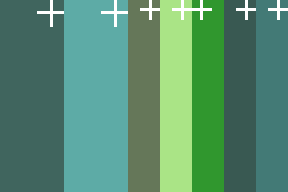
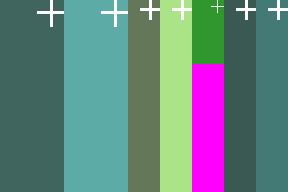
a

Changed region(s): [[0.6562, 0.3125, 0.7812, 1.0], [0.6562, 0.0, 0.7812, 0.125]]

diff --git a/wall-tileset-tool/main.cpp b/wall-tileset-tool/main.cpp
@@ -5,6 +5,7 @@
 #include "compat/format.hpp"
 #include "compat/debug.hpp"
 #include "src/wall-atlas.hpp"
+#include "src/tile-defs.hpp"
 #include "serialize/wall-atlas.hpp"
 //#include "serialize/json-helper.hpp"
 #include "loader/loader.hpp"
@@ -38,11 +39,6 @@ const Direction& get_direction(const wall_atlas_def& atlas, size_t i)
     fm_assert(idx);
     fm_assert(idx.val < atlas.direction_array.size());
     return atlas.direction_array[idx.val];
-}
-
-Direction& get_direction(wall_atlas_def& atlas, size_t i)
-{
-    return const_cast<Direction&>(get_direction(const_cast<const wall_atlas_def&>(atlas), i));
 }
 
 template<typename Fmt, typename... Xs>
@@ -90,40 +86,62 @@ bool convert_to_bgra32(const cv::Mat& src, cv::Mat4b& dest)
     }
 }
 
-Vector2ui mat_size(const cv::Mat& mat)
-{
-    return { (unsigned)mat.cols, (unsigned)mat.rows };
-}
-
 bool save_image(state st)
 {
-    const auto count = st.frames.size();
-    fm_assert(count);
-
-    for (auto i = 1uz; i < count; i++)
-        fm_assert(mat_size(st.frames[i].mat).y() == mat_size(st.frames[0].mat).y());
-
-    size_t total_width = 0;
-    for (const auto& x : st.frames)
-        total_width += mat_size(x.mat).x();
-    size_t num_rows = (total_width + max_image_dimension - 1) / max_image_dimension;
-    fm_assert(num_rows > 0);
-    fm_assert(num_rows == 1); // todo
-
-    st.dest.create((int)mat_size(st.frames[0].mat).y(), (int)total_width);
-    st.dest.setTo(cv::Scalar{0, 0, 0, 0});
-
-    unsigned xpos = 0;
-    for (auto& x : st.frames)
+    fm_assert(st.new_atlas.frames.empty());
+    uint32_t max_height = 0;
+    for (const auto& group : st.groups)
     {
-        const auto& src = x.mat;
-        x.size = mat_size(src);
-        x.offset = {(unsigned)xpos, 0};
-        auto rect = cv::Rect{(int)xpos, 0, (int)x.size.x(), (int)x.size.y()};
-        xpos += x.size.x();
-        src.copyTo(st.dest(rect));
-        st.new_atlas.frames.push_back({.offset = x.offset, .size = x.size});
+        const auto expected_size = wall_atlas::expected_size(st.new_atlas.header.depth, group.G);
+        max_height = std::max(max_height, expected_size.y());
     }
+    fm_assert(max_height > 0);
+    fm_assert(max_height == (uint32_t)iTILE_SIZE.z()); // todo?
+
+    uint32_t xpos = 0;
+    Vector2ui max;
+    for (auto& group : st.groups)
+    {
+        const auto size = wall_atlas::expected_size(st.new_atlas.header.depth, group.G);
+        const auto width = size.x(), height = size.y();
+        uint32_t ypos = 0;
+        bool started = false;
+        for (auto& frame : group.frames)
+        {
+            frame.offset = {xpos, ypos};
+            max = Math::max(max, frame.offset + size);
+            started = true;
+            fm_assert(max <= Vector2ui{(unsigned)max_image_dimension});
+            fm_assert(frame.size == size);
+            if (ypos + height*2 <= max_height)
+                ypos += height;
+            else
+            {
+                ypos = 0;
+                xpos += width;
+                started = false;
+            }
+        }
+        if (started)
+            xpos += width;
+    }
+    fm_assert(max.product() > 0);
+
+    st.dest.create((int)max.y(), (int)max.x());
+    st.dest.setTo(cv::Scalar{255, 0, 255, 0});
+
+    for (const auto& group : st.groups)
+    {
+        for (const auto& frame : group.frames)
+        {
+            //Debug{} << "g" << (int)group.G << frame.offset << frame.size;
+            auto rect = cv::Rect{(int)frame.offset.x(), (int)frame.offset.y(),
+                                 (int)frame.size.x(), (int)frame.size.y()};
+            frame.mat.copyTo(st.dest(rect));
+            st.new_atlas.frames.push_back({.offset = frame.offset, .size = frame.size});
+        }
+    }
+
     auto filename = ""_s.join({Path::join(st.opts.output_dir, st.new_atlas.header.name), ".png"_s});
     if (!st.opts.use_alpha)
     {
@@ -139,6 +157,8 @@ bool save_image(state st)
 bool save_json(state st)
 {
     using namespace floormat::Wall::detail;
+    fm_assert(!st.new_atlas.frames.empty());
+    fm_assert(st.new_atlas.header.depth > 0);
     auto filename = ""_s.join({Path::join(st.opts.output_dir, st.new_atlas.header.name), ".json"_s});
     st.new_atlas.serialize(filename);
     return true;
@@ -160,8 +180,16 @@ bool do_group(state st, size_t i, size_t j, Group& new_group)
     DBG << "    group" << quoted2(group_name);
     fm_debug_assert(expected_size > Vector2ui{0});
     fm_assert(Math::max(expected_size.x(), expected_size.y()) < max_image_dimension);
+    fm_assert((size_t)st.groups.at(j).G == j);
 
-    uint32_t count = 0, start = (uint32_t)st.frames.size();
+    auto& frames = [&] -> auto&& {
+        for (auto& g : st.groups)
+            if ((size_t)g.G == j)
+                return g.frames;
+        fm_abort("can't find ground '%d'", (int)j);
+    }();
+
+    auto count = 0uz, start = st.n_frames;
     new_group = old_group;
     new_group.is_defined = true;
     new_group.pixel_size = Vector2ui(expected_size);
@@ -171,12 +199,14 @@ bool do_group(state st, size_t i, size_t j, Group& new_group)
         auto filename = asformat("{}/{:04}.png"_cf, path, count+1);
         if (!Path::exists(filename))
             break;
-        count++;
         if (Path::isDirectory(filename)) [[unlikely]]
         {
             ERR << "fatal: path" << quoted(filename) << "is a directory!";
             return false;
         }
+
+        count++;
+        st.n_frames++;
 
         cv::Mat mat = cv::imread(filename, cv::IMREAD_ANYCOLOR), mat2;
         if ((Group_)j == Group_::top)
@@ -210,7 +240,10 @@ bool do_group(state st, size_t i, size_t j, Group& new_group)
             return false;
         }
 
-        st.frames.push_back({.mat = std::move(buf)});
+        frames.push_back({
+            .mat = std::move(buf),
+            .size = {(unsigned)mat.cols, (unsigned)mat.rows},
+        });
     }
 
     if (count == 0)
@@ -221,7 +254,7 @@ bool do_group(state st, size_t i, size_t j, Group& new_group)
 
     DBG << "      " << Debug::nospace << count << (count == 1 ? "frame" : "frames");
 
-    fm_assert(start + count == st.frames.size());
+    fm_assert(start + count == st.n_frames);
     new_group.count = count;
     new_group.index = start;
 
@@ -363,15 +396,27 @@ int main(int argc, char** argv)
 
     auto old_atlas = wall_atlas_def::deserialize(opts.input_file);
     auto new_atlas = wall_atlas_def{};
-    auto frames = std::vector<frame>{}; frames.reserve(64);
     auto dest = cv::Mat4b{};
     auto error = EX_DATAERR;
+    size_t n_frames = 0;
+
+    auto groups = std::vector<group>{};
+    groups.reserve(std::size(Wall::Direction::groups));
+
+    for (auto [name, ptr, val] : Wall::Direction::groups)
+    {
+        groups.push_back({
+            .frames = std::vector<frame>{},
+            .G = val,
+        });
+    }
 
     auto st = state {
         .opts = opts,
         .old_atlas = old_atlas,
         .new_atlas = new_atlas,
-        .frames = frames,
+        .groups = groups,
+        .n_frames = n_frames,
         .dest = dest,
         .error = error,
     };

diff --git a/editor/imgui-editors.cpp b/editor/imgui-editors.cpp
@@ -34,7 +34,7 @@ StringView scenery_type_to_string(const scenery_& sc)
 }
 
 StringView scenery_path(const wall_info* wa) { return wa->atlas->name(); }
-StringView scenery_name(StringView name, const scenery_& sc) { return sc.descr; }
+StringView scenery_name(StringView, const scenery_& sc) { return sc.descr; }
 StringView scenery_name(StringView, const vobj_& vobj) { return vobj.descr; }
 StringView scenery_name(StringView, const wall_info* w) { return w->descr; }
 std::shared_ptr<anim_atlas> get_atlas(const scenery_& sc) { return sc.proto.atlas; }

diff --git a/test/wall-atlas.cpp b/test/wall-atlas.cpp
@@ -123,7 +123,7 @@ void test_expected_size()
     fm_assert_equal(Vector2ui{64, 192}, wall_atlas::expected_size(42, Group_::wall));
     fm_assert_equal(Vector2ui{42, 192}, wall_atlas::expected_size(42, Group_::side));
     // swapped in atlas.json during reading and writing, rotated counter-clockwise in atlas image file
-    fm_assert_equal(Vector2ui{42, 192}, wall_atlas::expected_size(42, Group_::top));
+    fm_assert_equal(Vector2ui{42, 64}, wall_atlas::expected_size(42, Group_::top));
 }
 
 } // namespace

diff --git a/wall-tileset-tool/main.hpp b/wall-tileset-tool/main.hpp
@@ -13,8 +13,14 @@ struct options
 
 struct frame
 {
-    cv::Mat4b mat{};
-    Vector2ui offset{}, size{};
+    cv::Mat4b mat;
+    Vector2ui offset{}, size;
+};
+
+struct group
+{
+    std::vector<frame> frames;
+    Wall::Group_ G;
 };
 
 struct state
@@ -22,7 +28,8 @@ struct state
     options& opts;
     const wall_atlas_def& old_atlas;
     wall_atlas_def& new_atlas;
-    std::vector<frame>& frames;
+    std::vector<group>& groups;
+    size_t& n_frames;
     cv::Mat4b& dest;
     int& error;
 };

diff --git a/src/chunk-walls.cpp b/src/chunk-walls.cpp
@@ -93,10 +93,10 @@ constexpr Quads::quad get_quad(Direction_ D, Group_ G, float depth)
         else
         {
             return {{
-                { -X - depth, Y, Z },
-                { -X, Y, Z },
-                { -X - depth, -Y, Z },
                 { -X, -Y, Z },
+                { -X,  Y, Z },
+                { -X - depth, -Y, Z },
+                { -X - depth,  Y, Z },
             }};
         }
     case corner:

diff --git a/src/wall-atlas.cpp b/src/wall-atlas.cpp
@@ -92,6 +92,7 @@ Vector2ui wall_atlas::expected_size(unsigned depth, Group_ group)
     case wall:
         return { size.x(), size.z() };
     case top:
+        return { depth, size.x() };
     case side:
     case corner:
         return { depth, size.z() };
